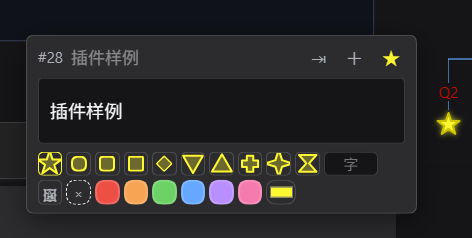
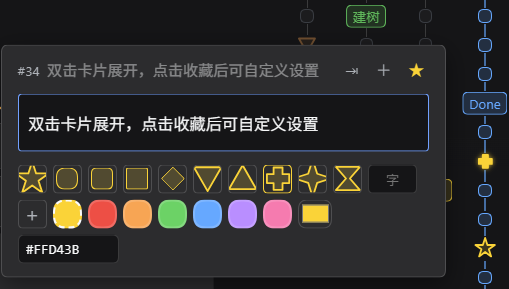
README 重写成面向用户的说明，英文为默认、中文可切换

diff --git a/README.md b/README.md
@@ -1,89 +1,107 @@
 <p align="center">
-  <img src="docs/banner.jpg" alt="dsh-tree — Conversation trees for dsh" width="860">
+  <img src="docs/banner.png" alt="dsh-tree — Conversation trees for dsh" width="860">
 </p>
 
 <h1 align="center">dsh-tree</h1>
 
 <p align="center">
-  把一个对话的所有分支画成一棵树，贴在 <a href="https://github.com/deepseek-ai">DeepSeek Harness</a> 聊天区右缘。<br>
-  点节点跳到那一轮，点 <b>＋</b> 从那儿接着问。
+  Every branch of a conversation, drawn as a tree down the right edge of
+  <a href="https://github.com/deepseek-ai">DeepSeek Harness</a>.<br>
+  Click a dot to jump to that turn. Click <b>＋</b> to continue from it.
+</p>
+
+<p align="center">
+  <b>English</b> · <a href="README.zh-CN.md">中文</a>
 </p>
 
 ---
 
-## 安装
+## Install
 
 ```sh
 dsh plugin --profile web add github:JRJRJPRO/dsh-tree
 ```
 
-刷新浏览器就能用，**不用重启 dsh**，也不依赖任何其它插件。
-卸载：`dsh plugin --profile web remove dsh-tree`。
+Refresh your browser and it's live — no dsh restart, no other plugins needed.
 
-装完它会出现在**插件市场的「已安装」**里，那儿的开关就是启用 / 停用，约 1 秒生效。
+To remove it: `dsh plugin --profile web remove dsh-tree`. It also shows up under
+**Installed** in the plugin market, where the toggle turns it on and off in about a second.
 
-## 用起来
+## The tree draws itself
 
-安装插件后刷新页面，对话树自动出现在正文右边：
+<img src="docs/rail.png" alt="The conversation tree" width="300" align="right">
 
-<img src="docs/rail.png" alt="对话树导轨" width="300">
+Refresh the page and it's already there, next to your chat.
 
-一个点就是一轮对话。**单击跳到那一轮**，滚动时当前这一轮会填实。
+Every dot is one turn. **Click one to jump to it** — the turn you're looking at
+is filled in solid as you scroll.
 
-悬浮到某个节点上，左边出一张缩略卡片；**双击卡片展开**，改名、挑形状、挑颜色、传张图都在这一档。收藏过的节点还能单独定义样式：
+Branches sit side by side, so you can see at a glance where a conversation split
+and which path you're on. Named nodes carry their label right on the tree.
 
-<img src="docs/card.png" alt="节点详情卡" width="470">
+<br clear="right">
 
-没有悬停的设备（手机、平板）上，「悬浮」就是点一下。
+## Every node has a card
 
-## 能做什么
+<img src="docs/card.png" alt="Node detail card" width="470" align="right">
 
-| | |
-|---|---|
-| **＋** | 从这一轮之后接着问，开一条新支线；在树根的空节点上则是在同一棵树里新开一条对话 |
-| **☆** | 收藏。这个点变成黄色五角星，图标和颜色都能单独换 |
-| **起名字** | 展开卡片就能给节点改名，名字直接写在树上 |
-| **⇥ / ⇤** | 把一条支线拆成独立的树 / 再接回去 |
-| **⊕ / ⊖** | 把本目录下别的对话整棵合并进来 / 拆回去 |
+Hover a dot for a preview. **Double-click the card to expand it** — rename the
+node, pick a shape, pick a color, or upload an image.
 
-灰掉的按钮表示现在做不了，鼠标停上去会写明原因。
+On touch devices, a tap does what hovering does.
 
-### 收藏图标
-
-收藏过的节点，展开卡片后多出两排：
-
-- **12 个形状** —— 圆 / 圆角方 / 方 / 菱形 / 三角 / 倒三角 / 箭头 / 五边形 / 六边形 / 十字 / 四角星 / 沙漏。按钮上直接画出形状本身，看到什么样节点就是什么样
-- **一个字** —— 填一个字或 emoji，节点画成它外加一个圆角描边框（不填底，免得糊住字）。框的松紧按字的实际宽度算，汉字、字母、emoji 看起来一样齐
-- **一张图** —— png / jpg / webp / svg 都行，尺寸不限，自动等比缩好。存在 `$DSH_HOME` 里，换浏览器也还在
-- **颜色** —— 6 个预设 + 一格「恢复默认」（画的就是默认那个色）+ 一个取色盘。**挑什么色就画什么色**，不会被自动调深调浅
-
-### 看得出状态
+<br clear="right">
 
 | | |
 |---|---|
-| 边框蓝 | 这个节点在你当前的对话里 |
-| 填充蓝 | 你正看着这一轮 |
-| 橙色倒三角 | 这一轮做过压缩 |
-| 灰掉的支线 | 撤回掉的轮次，不再假装还在对话里 |
+| **＋** | Continue from this turn as a new branch. On the empty root node, starts a fresh conversation in the same tree |
+| **☆** | Favorite. The dot becomes a gold star, and you can give it its own icon and color |
+| **⇥ / ⇤** | Split a branch off into its own tree, or put it back |
+| **⊕ / ⊖** | Merge another conversation from this folder into the tree, or pull it back out |
 
-## 调一调
+A greyed-out button means you can't do it right now — hover it and it will say why.
 
-**设置 → 插件 → 插件配置 → 对话树**：
+## The colors mean something
 
-- **配色** —— 一行一种（普通 / 当前路径 / 压缩 / 空节点 / 收藏），左边挑颜色右边挑形状。默认跟着宿主主题走，切浅色 / 深色树立刻跟着换；单独改过的那一项就钉死了，按「重置」交还回去
+| | |
+|---|---|
+| Blue outline | This node is part of your current conversation |
+| Solid blue | The turn you're looking at |
+| Orange triangle | This turn was compacted |
+| Faded branch | Turns you rewound — no longer pretending to be part of the conversation |
 
-  > 一个节点的「颜色」含义是固定的：**描边就是这个颜色，填充是它的半透明版**。
-  > 滚到某一轮时那个点会填实 —— 填实只表示「你正看着这一轮」，没有别的意思。
-  > 默认色分浅色 / 深色两版，跟着主题换；**你自己挑过的色就钉死了**，一个像素不会被改。
-- **显示范围** —— 只画离当前这一轮足够近的节点，两种量法**二选一**（设置里左右各一半）：
-  - **按层数**（1–30 层，默认 10）—— 和当前这一轮差几层以内。同一层要么整排都在、要么整排都不在，看着最齐整
-  - **按步数**（5–30 步，默认 12）—— 在树上走几步以内。父节点 1 步、父节点的另一个孩子 2 步，所以隔壁分支上和你同层的节点可能差很多步
-  - 两种量法都有「不省略」这一档。边界不硬切，最外两圈越画越小越淡；鼠标滑上去就恢复，照样能点
-- **节点大小**（50%–250%）—— 点、连线、列间距一起等比缩放
+## Make it yours
+
+<img src="docs/settings.png" alt="Settings card" width="470" align="right">
+
+**Settings → Plugins → Conversation tree**.
+
+**Visible range** keeps big trees readable by drawing only what's near your
+current turn — by depth or by distance, whichever you prefer. Either one has an
+"off" setting. Nodes at the edge shrink and fade rather than vanishing, and come
+back the moment you hover them.
+
+**Node size** scales dots, lines and spacing together, 50%–250%.
+
+**Colors** are one row per kind of node, color on the left and shape on the
+right. They follow your light/dark theme until you pick something yourself —
+then that choice sticks. **Reset** hands it back.
+
+<br clear="right">
+
+## Favorite icons
+
+Once a node is starred, its card offers two more rows:
+
+- **12 shapes** — circle, rounded square, square, diamond, triangle, inverted
+  triangle, arrow, pentagon, hexagon, cross, four-point star, hourglass
+- **A character** — any letter or emoji, drawn inside a rounded outline
+- **An image** — png / jpg / webp / svg, any size, scaled for you. Stored in
+  `$DSH_HOME`, so it survives a change of browser
+- **A color** — 6 presets, a reset swatch, and a full picker
 
 ---
 
-改代码、跑测试，或者让 AI 帮你改：[AGENTS.md](AGENTS.md)。
-设计与取舍：[DESIGN.md](DESIGN.md)。宿主原生能力清单：[NATIVE-BASELINE.md](NATIVE-BASELINE.md)。
+Want to hack on it? [AGENTS.md](AGENTS.md) · [DESIGN.md](DESIGN.md) · [NATIVE-BASELINE.md](NATIVE-BASELINE.md)
 
 MIT

diff --git a/README.zh-CN.md b/README.zh-CN.md
@@ -1,0 +1,101 @@
+<p align="center">
+  <img src="docs/banner.png" alt="dsh-tree — 把对话画成一棵树" width="860">
+</p>
+
+<h1 align="center">dsh-tree</h1>
+
+<p align="center">
+  把一个对话的所有分支画成一棵树，贴在
+  <a href="https://github.com/deepseek-ai">DeepSeek Harness</a> 聊天区右缘。<br>
+  点节点跳到那一轮，点 <b>＋</b> 从那儿接着问。
+</p>
+
+<p align="center">
+  <a href="README.md">English</a> · <b>中文</b>
+</p>
+
+---
+
+## 安装
+
+```sh
+dsh plugin --profile web add github:JRJRJPRO/dsh-tree
+```
+
+刷新浏览器就能用 —— 不用重启 dsh，也不依赖任何其它插件。
+
+卸载：`dsh plugin --profile web remove dsh-tree`。它也会出现在**插件市场的「已安装」**里，
+那儿的开关就是启用 / 停用，约 1 秒生效。
+
+## 树会自己出现
+
+<img src="docs/rail.png" alt="对话树" width="300" align="right">
+
+刷新页面，树已经在正文右边了。
+
+一个点就是一轮对话，**单击跳到那一轮** —— 滚到哪一轮，哪个点就填实。
+
+分支并排画，一眼看得出对话在哪儿岔开、你现在走在哪条路上。起过名字的节点，
+名字直接写在树上。
+
+<br clear="right">
+
+## 每个节点都有一张卡片
+
+<img src="docs/card.png" alt="节点详情卡" width="470" align="right">
+
+悬浮到节点上出缩略卡，**双击卡片展开** —— 改名、挑形状、挑颜色、传张图都在这一档。
+
+手机、平板这类没有悬停的设备上，点一下就是悬浮。
+
+<br clear="right">
+
+| | |
+|---|---|
+| **＋** | 从这一轮之后接着问，开一条新支线；在树根的空节点上则是在同一棵树里新开一条对话 |
+| **☆** | 收藏。这个点变成金色五角星，还能单独换图标和颜色 |
+| **⇥ / ⇤** | 把一条支线拆成独立的树 / 再接回去 |
+| **⊕ / ⊖** | 把本目录下别的对话整棵合并进来 / 拆回去 |
+
+灰掉的按钮表示现在做不了，鼠标停上去会写明原因。
+
+## 颜色是有含义的
+
+| | |
+|---|---|
+| 蓝色描边 | 这个节点在你当前的对话里 |
+| 蓝色填充 | 你正看着这一轮 |
+| 橙色倒三角 | 这一轮做过压缩 |
+| 灰掉的支线 | 撤回掉的轮次，不再假装还在对话里 |
+
+## 调成你喜欢的样子
+
+<img src="docs/settings.png" alt="设置卡片" width="470" align="right">
+
+**设置 → 插件 → 对话树**。
+
+**显示范围**只画离当前这一轮足够近的节点，树再大也看得清。按层数或按步数，
+喜欢哪种用哪种，两种都有「不省略」这一档。边界不硬切 —— 最外圈越画越小越淡，
+鼠标滑上去就回来。
+
+**节点大小**把点、连线、间距一起缩放，50%–250%。
+
+**配色**一行一种节点，左边颜色右边形状。默认跟着你的浅色 / 深色主题走；
+自己挑过的那一项就固定下来，按「重置」交还回去。
+
+<br clear="right">
+
+## 收藏图标
+
+节点收藏之后，卡片上多出两排：
+
+- **12 个形状** —— 圆 / 圆角方 / 方 / 菱形 / 三角 / 倒三角 / 箭头 / 五边形 / 六边形 / 十字 / 四角星 / 沙漏
+- **一个字** —— 填一个字或 emoji，画成它外加一个圆角描边框
+- **一张图** —— png / jpg / webp / svg 都行，尺寸不限，自动缩好。存在 `$DSH_HOME` 里，换浏览器也还在
+- **颜色** —— 6 个预设 + 一格恢复默认 + 一个取色盘
+
+---
+
+想改代码：[AGENTS.md](AGENTS.md) · [DESIGN.md](DESIGN.md) · [NATIVE-BASELINE.md](NATIVE-BASELINE.md)
+
+MIT
